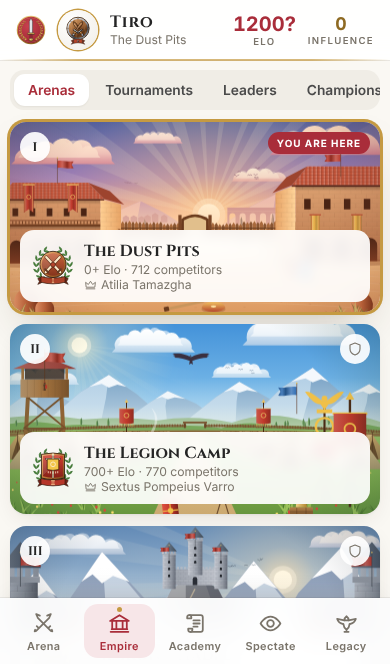
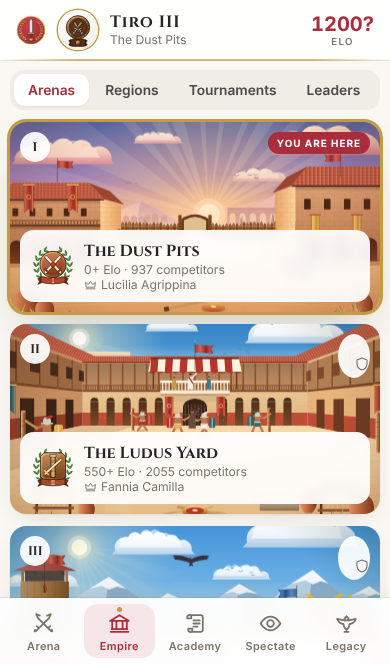
v0.3 release verification: animation convergence stress test in board lab, offline engine probe fix, new screenshots, STATUS/DESIGN/README/audit outcome
Claude-Session: https://claude.ai/code/session_01BCRgnfJBBUNzMrixRMDKAk

diff --git a/src/engine/enginePack.ts b/src/engine/enginePack.ts
@@ -287,6 +287,11 @@ export async function removeInstalled(baseUrl: string, cache: CacheLike, names: 
  * HEAD probe; SPA fallbacks answering index.html are detected by content type.
  */
 export async function probeBundled(baseUrl: string, name: string, bytes: number, f: FetchLike = fetch): Promise<boolean> {
+  // A remote PWA host cannot answer while the device is offline; the Windows launcher
+  // serves from the local machine, so the probe still runs there when offline.
+  const g = globalThis as { navigator?: { onLine?: boolean }; location?: { hostname?: string } };
+  const local = /^(localhost|127\.0\.0\.1|\[::1\])$/.test(g.location?.hostname ?? 'localhost');
+  if (g.navigator?.onLine === false && !local) return false;
   try {
     const r = await f(wasmUrl(baseUrl, name), { method: 'HEAD', cache: 'no-cache' });
     const type = r.headers.get('content-type') ?? '';

diff --git a/src/ui/boardLab.tsx b/src/ui/boardLab.tsx
@@ -20,7 +20,10 @@ function Lab() {
       return { fen: c.fen(), last: m, mate: c.isCheckmate(), resigned: null };
     }),
     resign: (side: 'w' | 'b') => setSt((s) => ({ ...s, resigned: side })),
+    unmount: () => root.unmount(),
   };
+  (window as unknown as { __labFen: () => string }).__labFen = () => st.fen;
   return <Board fen={st.fen} orientation="w" interactive={false} lastMove={st.last} settings={{ ...DEFAULT_SETTINGS }} set={0} arena={0} mate={st.mate} resigned={st.resigned} />;
 }
-createRoot(document.getElementById('root')!).render(<Lab />);
+const root = createRoot(document.getElementById('root')!);
+root.render(<Lab />);

diff --git a/docs/STATUS.md b/docs/STATUS.md
@@ -1,39 +1,64 @@
-# Implementation status — GLADIUS v0.2 (final: 2D White Imperial, untimed)
+# Implementation status — GLADIUS v0.3 "The Imperial Ascension"
 
-Only items verified in this repository are marked done. Screenshots: `docs/screenshots/` (desktop 1440×900 `desktop-*`, iPhone 13 emulation `phone-*`, art sheets).
+Only items verified in this repository are marked done. Baseline audit: [AUDIT_v0.3.md](AUDIT_v0.3.md). Screenshots: `docs/screenshots/` (desktop 1440×900 `desktop-*`, iPhone 13 emulation `phone-*`, 320 px and landscape phone, art sheets).
 
 ## How to run
-`npm install && npm run dev` · production: `npm run build && npm run preview` · Windows: `npm run package:win` · iPhone: see DEPLOY.md · re-bake art (dev only, uses three.js + Playwright): `npm run bake:sprites` · brand kit: `npm run build:brand` · benchmarks: `npm run bench` · world soak: `npm run soak`.
+`npm install && npm run dev` · production: `npm run build && npm run preview` · Windows: `npm run package:win` (bundles the full-strength engine) · iPhone PWA: see [DEPLOY.md](DEPLOY.md) · benchmarks: `npm run bench` · world soak: `npx tsx scripts/soak-world.ts 40 20260 25000` · career soak: `npm run soak`.
 
-## Final override acceptance
-| Requirement | State | Evidence |
+## Release gates
+| Gate | State | Evidence |
 |---|---|---|
-| No human time limit anywhere | ✅ | `CLOCKS_ENABLED = false`; every game kind starts untimed with no clock; clock UI never shown. `tests/untimed.test.ts`. |
-| Pause / save / resume without forfeit | ✅ | Test leaves a game 30 days (fake clock), reloads the save, game is not over, finishes normally. Browser: offline reload → RESUME restores the position. |
-| Engine bounded & cancellable | ✅ | Own node/time budget; `AbortController` cancels on leave. |
-| Fully 2D, no 3D board in gameplay | ✅ | `src/board2d/` + DOM sprites; 3D renderer files deleted. |
-| Three.js removed from runtime | ✅ | No runtime import (grep); `three` is a devDependency for the offline bake only; bundle 1.34 MB → ≈678 KB (210 KB gz). |
-| Original 2D piece sets | ✅ | Ivory & Bronze (default), Imperial Gold & Crimson, Carrara & Nero Marble; unlocked by arena. |
-| Boards | ✅ | 12 signature boards (incl. Ivory Marble, Imperial Gold, Legion Bronze, Colosseum Sandstone, Senate Mosaic, Praetorian Crimson, Caesar's Obsidian) + Eternal Laurel; "Arena signature" option. |
-| Majestic 2D animation default | ✅ | Frame sampling (production build): glides 46–53 moving frames, 0 teleports/regressions, arrival 730–870 ms; captures keep the victim visible ≈67 frames; castling rook hop verified. Fast/Balanced/Custom + skip + reduced motion. |
-| White Imperial UI, exactly 5 tabs | ✅ | Arena · Empire · Academy · Spectate · Legacy, every tab captured desktop + iPhone; no console errors. |
-| Official logo & icons | ✅ | `public/brand/` SVG masters + PNG rasters, maskable/Apple icons, favicon, `gladius.ico`; used in header, splash, onboarding, manifest, Windows package. |
-| 12 illustrated arenas + crests | ✅ | `arenas-1-6.png`, `arenas-7-12.png`, `arena-crests.png`; backdrops on the Arena stage, game stage, Spectate, Empire cards, arena reveal. |
-| Empire systems preserved | ✅ | All 304 tests pass (rules/perft, engine, Elo, tournaments, persistence & migration, career, trophies/achievements, world sims). |
-| Offline after build | ✅ | SW controlling → offline reload → resume: 32/32 piece sprites loaded, 0 failed requests. |
+| Classical chess rules | ✅ | perft and rules suites (castling, e.p., promotion, repetition, 50/75-move, insufficient material, PGN/FEN) |
+| All player games untimed; save & resume | ✅ | `tests/untimed.test.ts` (game left 30 days, reloaded, finished); offline reload → RESUME restores the position |
+| Five tabs only | ✅ | Arena · Empire · Academy · Spectate · Legacy; new depth lives in segments (Empire → Regions, Legacy → Hall of Fame) |
+| White UI consistent, phones usable | ✅ | Every tab captured desktop + iPhone 13; 320×568, 375, 390, 430, tablet and landscape measured: 0 px horizontal overflow, PLAY and Draw/Resign/Pause above the tab bar at every size, landscape puts the board left |
+| Pieces readable | ✅ | New hand-drawn vector "Legio" primary set + Senate Marble + Praetorian Guard; contact sheets on all 24 boards at 40 px and 90 px, grayscale and deuteranopia checks |
+| Animations converge to the authoritative position | ✅ | Frame sampling (Majestic): normal moves arrive 730–880 ms; promotion (Q, N), capture-promotion, en passant, O-O-O, check, mate topple; 20 moves 40 ms apart → 28/28 pieces correct, 0 duplicates; reset mid-animation → correct; unmount mid-animation → no errors |
+| 24 arenas, 72 ranks | ✅ | 12 new illustrated arenas + crests, 72 rank emblems; ranks = 24 titles × grades III–I in four families; transparent `rankProgress` |
+| Save migration (12/36 → 24/72) | ✅ | `tests/migrate.v03.test.ts` uses a real v0.2 save: old arena i → 2i, Eternal Throne → 23, ranks, titles, reigns, awards, records, player history; a season then runs and the save round-trips |
+| 25,000 persistent competitors | ✅ | Pyramid at creation: 28 above 2600, 4 above 2800, 0 above 3000; 50,000 unique names tested |
+| Careers evolve coherently | ✅ (40-season soak) | Mean rating 1143–1154, rating−skill gap −5…+1, population exactly 25,000, ~221 retirements/season, no promotion loops, no double title holders (bug found & fixed) |
+| Tournaments, trophies exactly once | ✅ | Format fuzz tests, deterministic award ids, soak invariants |
+| Achievements from verified events | ✅ | 148 achievements; analysis-based ones need complete analysis |
+| Hall of Fame persists | ✅ | Legends archive keeps retired competitors; ten lists with stated criteria |
+| Engine strength represented accurately | ✅ | `activeEngineInfo` labels only big-net builds "full"; test: phone without pack never claims full strength |
+| Full-strength distribution | ✅ (code + Node/HTTP verification) | 4 gzip chunks ≤ 20 MiB + 259 KB delta in git; SHA-256 verified install into Cache Storage; bundled in the Windows package. **Not run in a real browser on a phone.** |
+| Offline | ✅ | Production build, SW controlling, offline reload → resume, all 32 pieces loaded |
+| Automated tests | ✅ | **402 passing, 26 files** (`npx vitest run`); `tsc --noEmit` clean |
+| Production build | ✅ | `vite build`, precache 199 entries / 5.7 MB (engine pack deployed but not precached) |
 
-## Tests actually executed
-- `npm test`: **304 passing, 18 files**. `tsc --noEmit` clean. `vite build` OK (precache 185 entries, 5.3 MB).
-- Browser E2E (Playwright Chromium, desktop 1440×900 and iPhone 13 emulation): onboarding → Arena → game → Empire (arena cards, arena sheet, tournaments, champions, competitor) → Academy → Spectate (live broadcast) → Legacy (profile, Hall of Honors, achievements, timeline, collection, settings) → promotion and arena-reveal ceremonies. No console errors.
-- Engine benchmarks (unchanged from v0.2, see ENGINE.md): full net vs lite net **+89 Elo [95% CI +59, +120], 160 games**; v0.2 top tier vs v0.1 top tier **+57 [+24, +91], 80 games**. No Elo-vs-humans claim.
+## Engine benchmarks (see ENGINE.md for configs, nps, depth, memory)
+v0.3 top configuration vs v0.2 as shipped (Lite), 40 balanced openings, both colours, fixed movetime, loaded 4-vCPU box:
+
+| Platform | Budget | Games | W/D/L | Elo [95% CI] |
+|---|---|---|---|---|
+| PWA, full-single vs lite-single | 100 ms | 160 | +70 =80 −10 | +137 [+101, +176] |
+| PWA, same | 400 ms | 80 | +25 =50 −5 | +89 [+45, +136] |
+| Windows, full-mt T3 vs lite-mt T3 | 200 ms | 60 | +18 =41 −1 | +101 [+56, +150] |
+
+Relative engine-vs-engine numbers only; no Elo-vs-humans claim. Playing styles now measurably change move choice (e.g. attacker +5.6 ± 2.3 pp checks at 1600) with no measurable strength cost; technician and counterattacker remain weak in the middlegame.
+
+## Performance (measured)
+| Metric | Result |
+|---|---|
+| New world (25k, 8 burn-in seasons), browser onboarding → ready | 4.6–5.4 s (desktop Chromium, loaded box) |
+| `createWorld` in Node | 5.2–7.6 s wall |
+| One simulated season | ~0.75 s |
+| Save size | 29 MB JSON in 957 parts (5.5 MB gzipped backup) |
+| Commit during a game / after a game / season end | 1 ms / ~130 ms / ~320 ms |
+| Load | ~580 ms |
+| Analysis (MultiPV 3, depth 13, 100 plies) | ~30 s headless |
+| Full engine start | 0.75–1.04 s (lite 0.16–0.19 s) |
+Frame rate and battery on real phones were **not measured** (no device available).
 
 ## Known limitations (honest)
-- 2D promotion and mate/resign topple animations are implemented but were not frame-sampled in the 2D renderer (the old 3D versions were).
-- Art is code-generated (SVG illustrations, SDF sculpts baked to sprites): polished stylized vector, not painterly. Portrait nose types differ little at 48 px.
-- On an iPhone-sized screen the PLAY button on the Arena home sits at the fold under the board and may need a short scroll.
-- Not tested on a physical iPhone or Windows PC; frame rate and battery are unmeasured.
-- Old saves keep their history; their stored timed/3D settings are ignored.
-- The 99 MB big-net engine is git-ignored (GitHub file limit); fresh clones run the lite net until it is copied in (ENGINE.md §8).
+- No physical iPhone or Windows PC was available: Safari's handling of the 99 MB wasm, real frame rate, memory and battery are unverified.
+- After each game ~4 MB of competitor chunks are rewritten (~130 ms on the main thread); a per-row journal or worker would cut it.
+- Elite ratings drift slowly upward (max 3002 → ~3150 over 40 seasons; 0–2 players above 3000); one 34-defence dynasty appeared in the soak.
+- Lite Stockfish at analysis depth 11–14 can mislabel deep sacrifices (reliability tag shown); strict puzzle margins yield few puzzles.
+- Senate Marble queen/king are the closest pair at 32 px; the check highlight relies on its pulse for red-green colour-blind players.
+- Trophy art: the 21 new non-signature trophy kinds reuse existing sprites.
+- Regional balance for a human career has not been play-tested over many seasons.
 
 ## Next recommended milestone
-Real-device pass (iPhone Safari PWA + Windows Edge), frame-sample 2D promotion/topple, phone Arena layout tuning so PLAY is above the fold, hand-painted arena variants.
+Real-device pass (iPhone PWA + Windows) for frame rate, memory and the engine pack; move post-game commits to a worker; dedicated art for the 21 new trophy kinds; long human play-test of regional circuits.

diff --git a/docs/DESIGN.md b/docs/DESIGN.md
@@ -1,4 +1,4 @@
-# GLADIUS — Design & Architecture (v0.2 "Imperial Reforging", final 2D White Imperial)
+# GLADIUS — Design & Architecture (v0.3 "Imperial Ascension")
 
 Companion documents: [ART_BIBLE.md](ART_BIBLE.md) (visual language) · [ENGINE.md](ENGINE.md) (chess intelligence & benchmarks) · [WORLD.md](WORLD.md) (trophies, achievements, records, rivalries, invitations, objectives) · [PERSISTENCE.md](PERSISTENCE.md) (save format) · [STATUS.md](STATUS.md) (what is verified).
 
@@ -7,6 +7,16 @@ CHALLENGE → PLAY → RESULT → ANALYZE → IMPROVE → ADVANCE. The Arena tab
 
 ## Five tabs (unchanged)
 Arena · Empire · Academy · Spectate · Legacy. New depth lives in segments and sheets inside them (e.g. Legacy → Hall of Honors / Achievements / Timeline), never as new tabs.
+
+## v0.3 decisions
+| Area | Decision | Evidence |
+|---|---|---|
+| Scale | 24 arenas × 3 grades = 72 ranks (24 titles in gladiatorial / legion / civic / imperial families); 25,000 competitors; 8 regional circuits | WORLD.md v0.3, migration test |
+| Pieces | Hand-drawn layered-SVG piece sets baked to WebP (Legio primary, Senate Marble, Praetorian Guard) | ART_BIBLE, contact sheets |
+| Mobile | Board sized by width *and* height; game controls inside the stage on phones; landscape two-column stage | STATUS mobile gate |
+| Engine | Full-net engine as a chunked, SHA-verified pack; accurate labels; worker cap; analysis held during games | ENGINE.md v0.3 |
+| Analysis | MultiPV-3 post-game analysis, documented accuracy & classes, skill profile, puzzles from real mistakes | ANALYSIS.md |
+| Legacy | Hall of Fame and full career statistics computed from stored games (`game/careerStats.ts`) | tests/careerStats.test.ts |
 
 ## v0.2 decisions (final overrides applied)
 | Area | Decision | Evidence |
@@ -28,4 +38,4 @@ Arena · Empire · Academy · Spectate · Legacy. New depth lives in segments an
 Unchanged rules from v0.1 (see WORLD.md for audited details): grades follow Elo inside an arena; entering a new arena needs a Promotion Trial win or +150 dominance; 100-point demotion buffer; placement over the first 20 games moves ≤2 grades per game. Influence is earned from results and honours, decays 15 %/season, buys hosting and formal challenges, never affects chess. Opponent strength never scales with the player's results; rival preparation only changes opening choices.
 
 ## Module map
-`chess/` rules, openings (433 lines), endgames, puzzles · `engine/` UCI client, scheduler, builds, personas · `rating/` Elo · `world/` population, sim, calendar, trophies, records · `tournament/` six formats · `analysis/` · `game/` career, legacy, ledger, achievements, influence · `persist/` split saves, backups · `board2d/` animation timeline, board themes · `render/` bake-only SDF sculpts (dev) · `art/` logo, arena backdrops & crests, portraits, emblems · `ui/` React.
+`chess/` rules, openings (433 lines), endgames, puzzles · `engine/` UCI client, scheduler, builds, personas · `rating/` Elo · `world/` population, sim, calendar, trophies, records · `tournament/` six formats · `analysis/` · `game/` career, legacy, ledger, achievements, influence · `persist/` split saves, backups · `board2d/` animation timeline, board themes, piece sets · `render/` bake-only SDF sculpts (dev) · `art/` logo, arena backdrops & crests, portraits, emblems · `ui/` React.

diff --git a/README.md b/README.md
@@ -1,10 +1,11 @@
 # GLADIUS — The Eternal Chess Empire
 
-An offline-first Roman chess career game. Real FIDE chess against a living empire of 5,000 persistent AI competitors, with Elo, 12 arenas, 36 ranks, tournaments, championships, live spectating and full Stockfish analysis.
+An offline-first Roman chess career game. Real FIDE chess, fully 2D and untimed, against a living empire of 25,000 persistent AI competitors across 24 arenas, 72 ranks and eight regional circuits — with Elo, tournaments, championships, rivalries, a Hall of Fame, live spectating and full Stockfish analysis.
 
 - **Play:** `npm install && npm run dev`, or see [docs/DEPLOY.md](docs/DEPLOY.md) for the Windows one-click package and iPhone PWA.
 - **Design & architecture:** [docs/DESIGN.md](docs/DESIGN.md)
 - **Status, tests and known limitations:** [docs/STATUS.md](docs/STATUS.md)
+- **Analysis model:** [docs/ANALYSIS.md](docs/ANALYSIS.md) · **Engine & benchmarks:** [docs/ENGINE.md](docs/ENGINE.md) · **World rules & API:** [docs/WORLD.md](docs/WORLD.md), [docs/WORLD_API.md](docs/WORLD_API.md)
 
 Five tabs: **Arena · Empire · Academy · Spectate · Legacy**.
 

diff --git a/docs/AUDIT_v0.3.md b/docs/AUDIT_v0.3.md
@@ -40,3 +40,6 @@ Audited on the v0.2 final commit (`f651004`) before any v0.3 change. Every item 
 3. **Phase C — living empire:** 25,000 competitors, regions, career stages/ambitions, generations, rivalries, indexed simulation, compact saves, migration.
 4. **Phase D — competition & honours:** regional circuits and new event kinds, region-aware trophies, Hall of Fame, Chronicle filters.
 5. **Phase E — Academy & release:** defensible classifications, puzzles from real mistakes, weakness tracking, improvement charts, integrity separation; performance report; docs.
+
+## Outcome
+All five plan items were implemented; the gates and measurements are in [STATUS.md](STATUS.md). The 24-arena / 72-rank expansion was added mid-release and is included (old arena *i* → 2*i*, Eternal Throne → 23).
